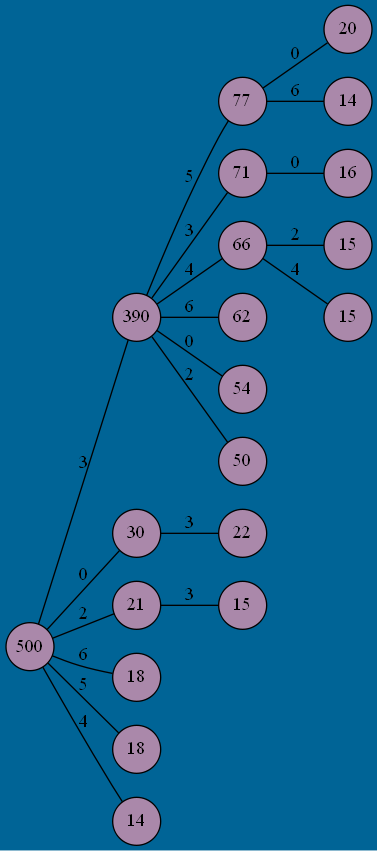
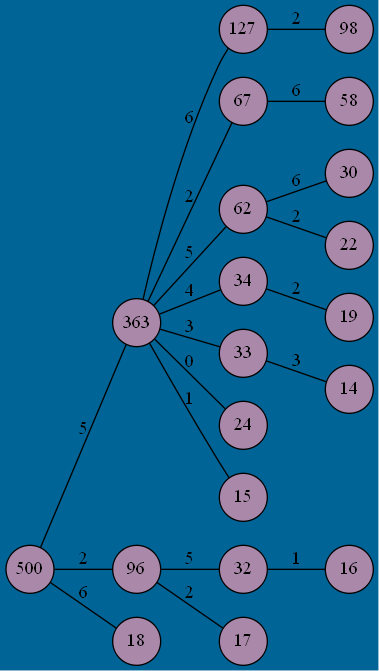
made graphing optional, visualizing for tictactoe

diff --git a/Gamerendering.py b/Gamerendering.py
@@ -36,7 +36,7 @@ class GameRendering:
         self.height = self.game.board_dims[1]
         self.width = self.game.board_dims[2]
         self.image = pygame.image.load("nevraltnett.png")
-        self.imagerect = self.image.get_size()
+        self.imagerect = (0, 0)
         self.black = (0, 0, 0)
         self.white = (255, 255, 255)
         self.piece_size = self.side_length//3
@@ -57,7 +57,22 @@ class GameRendering:
         elif self.game.name == "FourInARow":
             self.fourinarow = True
             self.background_color = (0, 100, 150)
-        
+        """check if graphviz is installed and in path"""
+        try:
+            self.test_graph="digraph g{rankdir=LR;testing -> testing -> tested}"
+            self.test_graph = pydot.graph_from_dot_data(self.test_graph)[0]
+            self.test_graph.write_png('graph.png')
+        except FileNotFoundError:
+            print("Error:Graphviz is not installed or not on path, skipping visualization")
+            self.draw_graph=False
+        except:
+            print("Error: Unknown error with graph visualization, skipping")
+            self.draw_graph=False
+        else:
+            self.draw_graph=True
+
+
+
         self.update_screen()
         
         
@@ -125,24 +140,7 @@ class GameRendering:
                         if (searches%100 == 0 and searches != 0):
                             """update weight on screen every 200 search"""
                             self.NNvisual(tree, num_nodes=20)
-                            """Build most searched line, and show it on screen"""
-                            self.primary_line = []
-                            tree_copy = copy.copy(tree)
-                            best_action = tree_copy.get_most_searched_move(tree_copy.root)
-                            tree_copy.game.execute_move(best_action)
-                            tree_copy.root = tree_copy.find_node_given_state(tree_copy.game.get_board())
-                            self.primary_line.append(best_action)
-                            c = 1
-                            while best_action:
-                                best_action = tree_copy.get_most_searched_move(tree_copy.root)
-                                tree_copy.game.execute_move(best_action)
-                                tree_copy.root = tree_copy.find_node_given_state(tree_copy.game.get_board())
-                                self.primary_line.append(best_action)
-                                c += 1
-                            for move in range(c):
-                                tree_copy.game.undo_move()
 
-                            self.show_gamelines(self.primary_line)
                     self.NNvisual(tree,num_nodes=20)
                 else:
                     tree.search_series(100)
@@ -162,7 +160,7 @@ class GameRendering:
             possible_moves = self.game.get_moves()
             for move in possible_moves:
                 self.label = self.font_renderer.render(str(round(self.weights[move],4)),1,self.font_color)
-                self.screen.blit(self.label,[ (self.side_length + self.line_th) // 2 + self.side_length * ((self.Config.move_to_number(move)) % self.width) - self.label.get_width() / 2,(self.side_length + self.line_th) // 2 + self.side_length * ((8-self.Config.move_to_number(move))//self.width) - self.label.get_height() ])
+                self.screen.blit(self.label,[ (self.side_length + self.line_th) // 2 + self.side_length * ((self.Config.move_to_number(move)) % self.width) - self.label.get_width() / 2,self.side_length * ((8-self.Config.move_to_number(move))//self.width) + self.label.get_height() - self.line_th ])
                 pygame.display.flip()
         elif self.fourinarow:
             possible_moves = self.game.get_moves()
@@ -213,7 +211,7 @@ class GameRendering:
         for move in possible_moves:
             new_possible_color = (possible_color[0], possible_color[1], 200*self.weights[move])
             if self.tictactoe:
-                move = (self.width * self.height) - (move)//self.width * self.width + (move) % self.width-self.width
+                move = self.y_flip(move)
             pygame.draw.circle(self.screen, new_possible_color, [
                     (self.side_length + self.line_th) // 2 + self.side_length * (
                                 (self.Config.move_to_number(move)) % self.width),
@@ -286,29 +284,64 @@ class GameRendering:
                               label=str(- node_visits + 100000), shape="circle", fixedsize="shape")
             graph.add_node(node)
             if x != 0:
-                graph.add_edge(pydot.Edge(id(tree_node.parent), id(tree_node), label=str(tree_node.get_last_action())))
+                move = tree_node.get_last_action()
+                if self.tictactoe:
+                    move = self.y_flip(move)
+                graph.add_edge(pydot.Edge(id(tree_node.parent), id(tree_node), label=str(move)))
+        """roterer grafen, setter bakgrunn"""
         graph_string = graph.to_string()
-        graph_string = graph_string.replace("{",'{rankdir = LR;bgcolor="#%02x%02x%02x";' % self.background_color)  # roterer grafen
-        print(graph_string)
+        graph_string = graph_string.replace("{",'{rankdir = LR;bgcolor="#%02x%02x%02x";' % self.background_color)
         graph = pydot.graph_from_dot_data(graph_string)[0]
         graph.write_png('graph.png')
 
     def NNvisual(self, tree, num_nodes):
-        self.visualize_tree(tree.root, num_nodes)
-        self.image = pygame.image.load("graph.png")
-        self.imagerect = self.image.get_size()
-        self.image = pygame.transform.smoothscale(self.image,
-                                                  (min(720, self.imagerect[0]), min(720, self.imagerect[1])))
-        self.imagerect = self.image.get_size()
-        self.screen = pygame.display.set_mode(
-            [self.side_length * self.width + self.line_th + self.imagerect[0],
-             max(self.side_length * (self.height + 1) + self.line_th, self.imagerect[1])])
+        '''visualize tree'''
+        if self.draw_graph:
+            self.visualize_tree(tree.root, num_nodes)
+            self.image = pygame.image.load("graph.png")
+            self.imagerect = self.image.get_size()
+            self.image = pygame.transform.smoothscale(self.image,
+                                                      (min(720, self.imagerect[0]), min(720, self.imagerect[1])))
+            self.imagerect = self.image.get_size()
+            self.screen = pygame.display.set_mode(
+                [self.side_length * self.width + self.line_th + self.imagerect[0],
+                 max(self.side_length * (self.height + 1) + self.line_th, self.imagerect[1])])
         self.weights = tree.get_posterior_probabilities()
+        """Build most searched line, and show it on screen"""
+        self.primary_line = []
+        tree_copy = copy.copy(tree)
+        best_action = tree_copy.get_most_searched_move(tree_copy.root)
+        tree_copy.game.execute_move(best_action)
+        tree_copy.root = tree_copy.find_node_given_state(tree_copy.game.get_board())
+        if self.tictactoe:
+            best_action_number = self.y_flip(best_action)
+        else:
+            best_action_number = best_action
+        self.primary_line.append(best_action_number)
+        c = 1
+        while best_action:
+            best_action = tree_copy.get_most_searched_move(tree_copy.root)
+            tree_copy.game.execute_move(best_action)
+            tree_copy.root = tree_copy.find_node_given_state(tree_copy.game.get_board())
+            if self.tictactoe:
+                best_action_number = self.y_flip(best_action)
+            else:
+                best_action_number = best_action
+            self.primary_line.append(best_action_number)
+            c += 1
+        for move in range(c):
+            tree_copy.game.undo_move()
+        '''update screen'''
         self.update_screen()
         self.see_valuation()
+        self.show_gamelines(self.primary_line)
 
     def show_gamelines(self, pline):
         myfont = pygame.font.SysFont(self.default_font, 30)
         line = myfont.render('Projected line:' + str(pline), False, self.white)
         self.screen.blit(line, (0, (self.side_length * self.height) + self.line_th))
         pygame.display.flip()
+
+    def y_flip(self, move):
+        #for use with TicTacToe
+        return (self.width * self.height) - (move) // self.width * self.width + (move) % self.width - self.width
